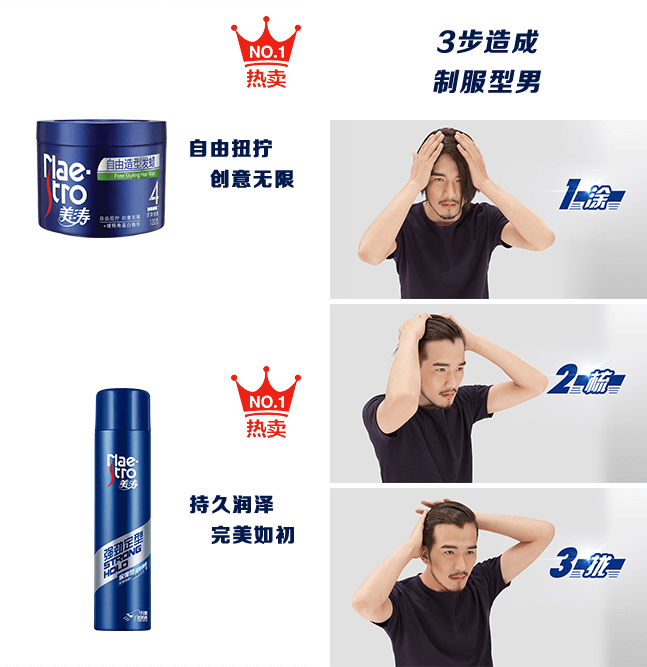
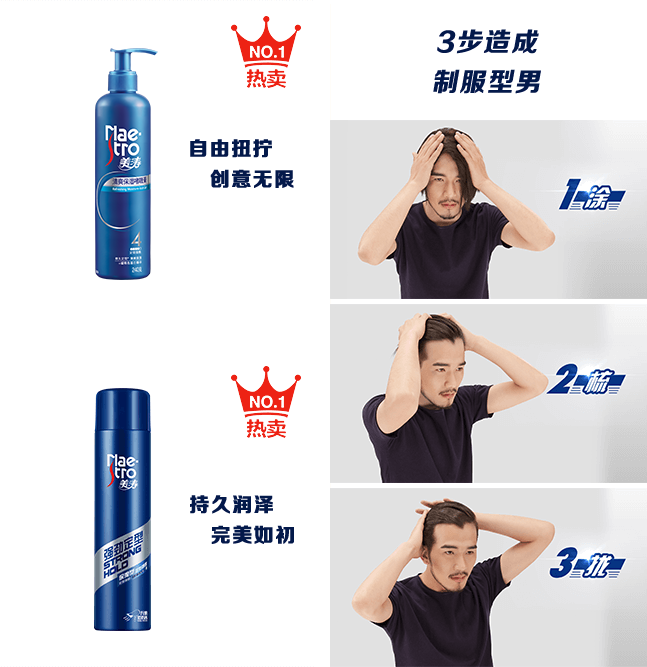
update

Changed region(s): [[0.0309, 0.06, 0.2782, 0.4198]]

diff --git a/index.html b/index.html
@@ -1263,14 +1263,14 @@
                     <div class="wtile w13 w132 wapShow">
                         <div class="innerDiv">
                             <img src="images/201608w/wap_p19a.png">
-                            <a href='http://www.maestro.com.cn/productcatalogue/ziyouzaoxingfala'
+                            <a href='http://www.maestro.com.cn/productcatalogue/qingshuangbaoshizheligao'
                                class='wtile-link needTrack' target="_blank"><img
                                     src="images/space.gif" width="100%"
                                     height="100%"></a>
-                            <a href="http://www.maestro.com.cn/productcatalogue/ziyouzaoxingfala"
+                            <a href="http://www.maestro.com.cn/productcatalogue/qingshuangbaoshizheligao"
                                class="stxt stxt1 needTrack">推荐产品</a>
-                            <a href="http://www.maestro.com.cn/productcatalogue/ziyouzaoxingfala"
-                               class="stxt stxt2 needTrack" target="_blank">美涛自由造型发蜡</a>
+                            <a href="http://www.maestro.com.cn/productcatalogue/qingshuangbaoshizheligao"
+                               class="stxt stxt2 needTrack" target="_blank">美涛清爽保湿啫喱膏</a>
                         </div>
                     </div>
 
@@ -1292,14 +1292,14 @@
                         <div class="wtile w23 sb3need">
                             <div class="innerDiv">
                                 <img src="images/201608w/indexImg19sb.png">
-                                <a href='http://www.maestro.com.cn/productcatalogue/ziyouzaoxingfala'
+                                <a href='http://www.maestro.com.cn/productcatalogue/qingshuangbaoshizheligao'
                                    class='wtile-link5 needTrack' target="_blank"><img
                                         src="images/space.gif" width="100%"
                                         height="100%"></a>
-                                <a href="http://www.maestro.com.cn/productcatalogue/ziyouzaoxingfala"
+                                <a href="http://www.maestro.com.cn/productcatalogue/qingshuangbaoshizheligao"
                                    class="stxt stxt7 needTrack">推荐产品</a>
-                                <a href="http://www.maestro.com.cn/productcatalogue/ziyouzaoxingfala"
-                                   class="stxt stxt8 needTrack" target="_blank">美涛自由造型发蜡</a>
+                                <a href="http://www.maestro.com.cn/productcatalogue/qingshuangbaoshizheligao"
+                                   class="stxt stxt8 needTrack" target="_blank">美涛清爽保湿啫喱膏</a>
 
                                 <a href='http://www.maestro.com.cn/productcatalogue/dingxingpenwubaoshi'
                                    class='wtile-link6 needTrack' target="_blank"><img
